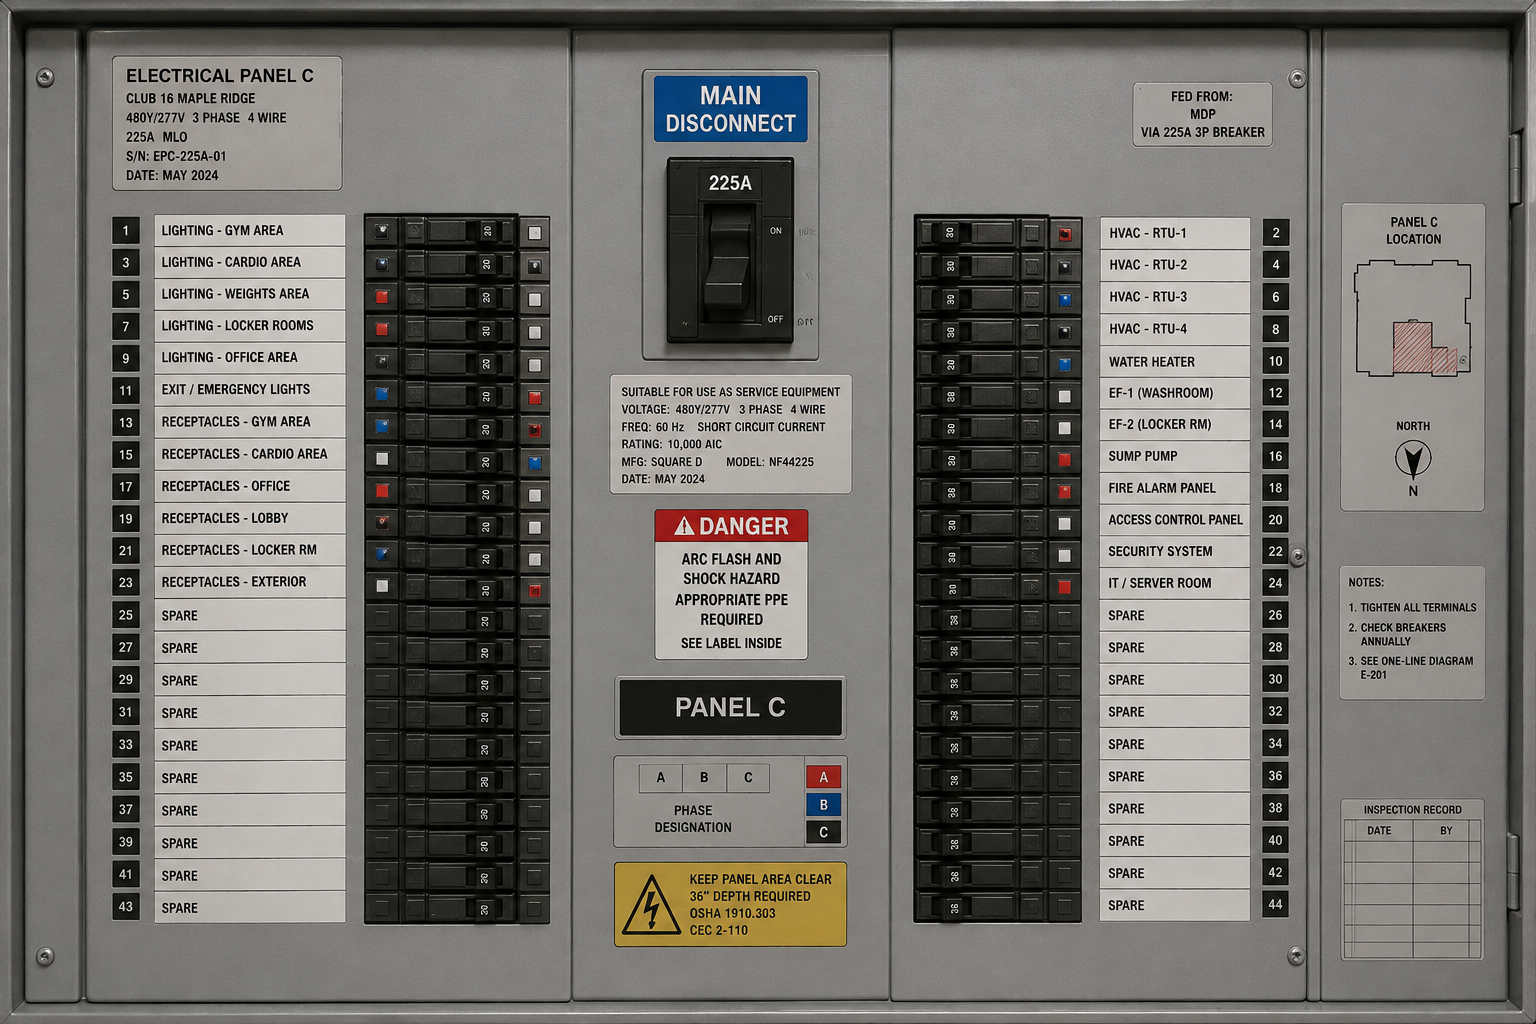
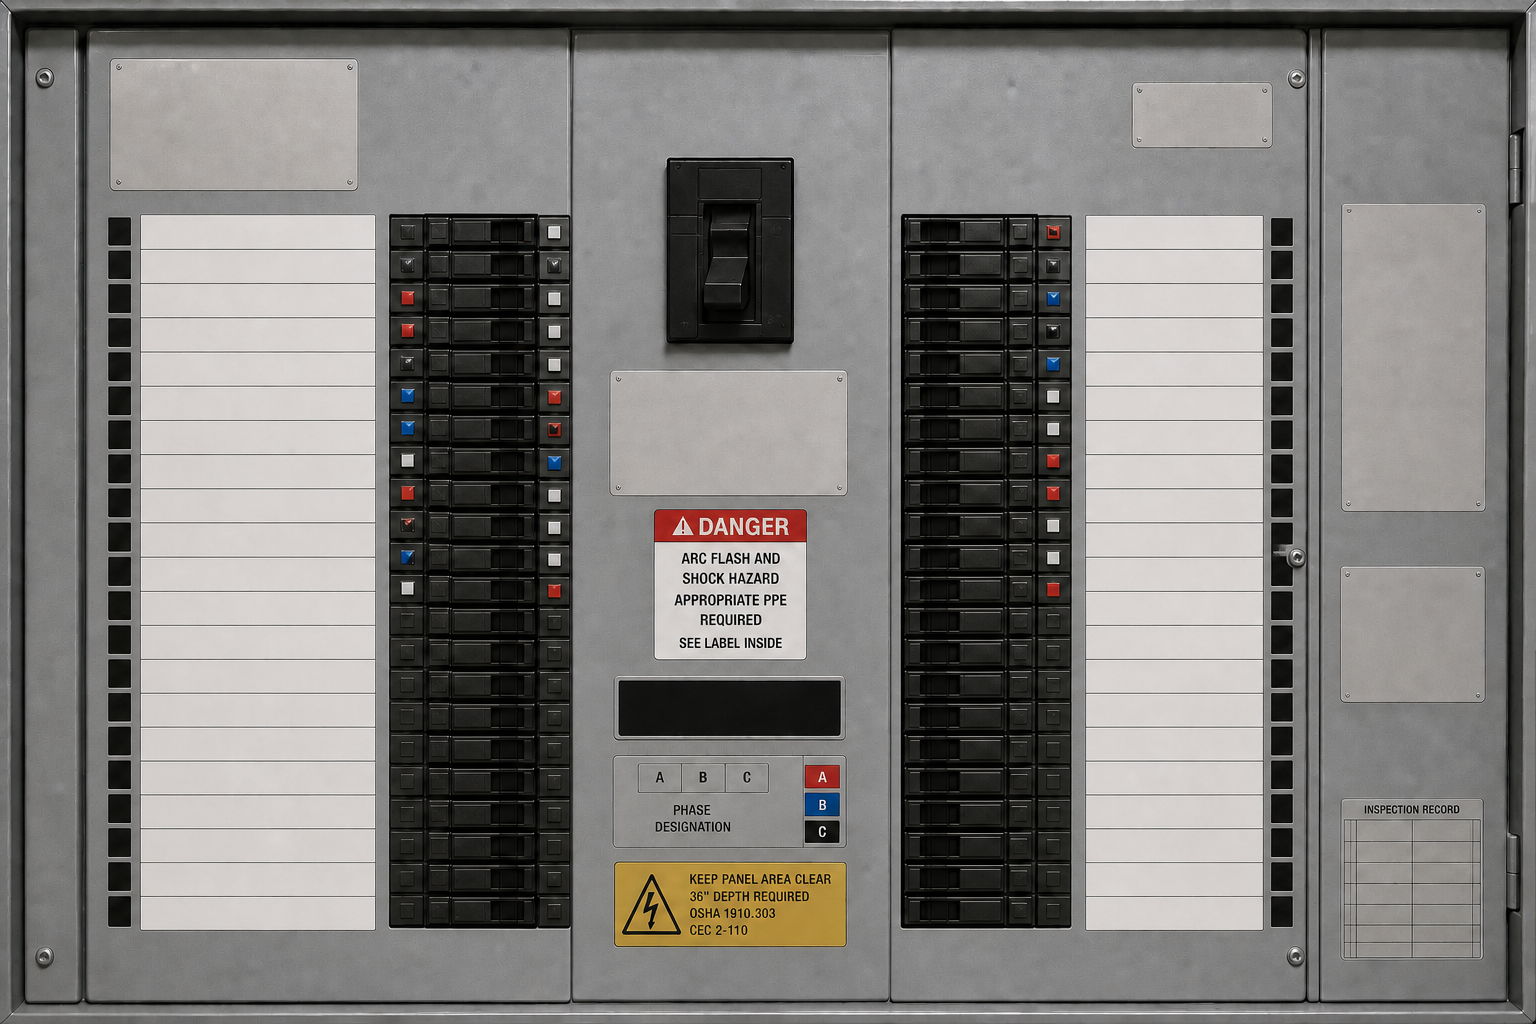
Add files via upload

diff --git a/app.js b/app.js
@@ -14,7 +14,7 @@ const PRODUCTION_SITE_URL = "https://sitesworks.info/";
 const SITEWORKS_API_BASE_URL = "";
 const SITEWORKS_API_MODE = SITEWORKS_API_BASE_URL ? "server" : "supabase";
 const STRUCTURED_DATA_SYNC_ENABLED = true;
-const SITEWORKS_APP_VERSION = "20260807-panel-ar-overlays";
+const SITEWORKS_APP_VERSION = "20260807-panel-template-overlays";
 const ALL_CUSTOMERS = "all";
 const ALL_LOCATIONS = "all";
 const MONITORING_SOURCE_PHASES = ["A", "B", "C"];
@@ -4190,27 +4190,27 @@ const MONITORING_PANEL_TEMPLATES = {
     circuitCount: 42,
     aspectRatio: "3 / 2",
     rows: {
-      left: { startY: 21.2, rowStep: 3.12 },
-      right: { startY: 21.2, rowStep: 3.12 }
+      left: { startY: 21.05, rowStep: 3.12 },
+      right: { startY: 21.05, rowStep: 3.12 }
     },
     zones: {
       left: {
-        row: { x: 5.7, width: 31.5, height: 2.65 },
-        number: { x: 5.7, width: 2.05 },
-        amps: { x: 7.88, width: 2.9 },
-        label: { x: 11.1, width: 13.8 },
-        breaker: { x: 23.25, width: 5.6 },
-        status: { x: 28.95, width: 2.15 },
+        row: { x: 6.95, width: 30.35, height: 2.65 },
+        number: { x: 6.95, y: 0, width: 1.65, height: 52 },
+        amps: { x: 6.95, y: 50, width: 1.65, height: 50 },
+        label: { x: 9.15, width: 15.35 },
+        breaker: { x: 25.35, width: 10.45 },
+        status: { x: 36.15, width: 1.0 },
         voltage: { x: 31.45, width: 2.55 },
         temperature: { x: 34.15, width: 2.55 }
       },
       right: {
-        row: { x: 61.0, width: 31.7, height: 2.65 },
-        status: { x: 61.0, width: 2.15 },
-        breaker: { x: 63.4, width: 5.6 },
-        label: { x: 70.0, width: 17.4 },
-        number: { x: 87.9, width: 2.05 },
-        amps: { x: 90.1, width: 2.9 },
+        row: { x: 58.65, width: 25.65, height: 2.65 },
+        status: { x: 58.65, width: 1.0 },
+        breaker: { x: 59.6, width: 10.2 },
+        label: { x: 70.6, width: 11.65 },
+        number: { x: 82.85, y: 0, width: 1.45, height: 52 },
+        amps: { x: 82.85, y: 50, width: 1.45, height: 50 },
         voltage: { x: 56.1, width: 2.55 },
         temperature: { x: 58.8, width: 2.55 }
       }
@@ -4248,9 +4248,10 @@ function monitoringOverlayInnerStyle(rowZone = {}, zone = {}, height = 100) {
   const rowX = Number(rowZone.x || 0);
   const rowWidth = Math.max(1, Number(rowZone.width || 100));
   const left = ((Number(zone.x || 0) - rowX) / rowWidth) * 100;
+  const top = Number(zone.y || 0);
   const width = (Number(zone.width || 0) / rowWidth) * 100;
   const zoneHeight = zone.height || height;
-  return `left:${left}%;top:0%;width:${width}%;height:${zoneHeight}%;`;
+  return `left:${left}%;top:${top}%;width:${width}%;height:${zoneHeight}%;`;
 }
 
 function monitoringCircuitValue(channel = null, names = []) {

diff --git a/styles.css b/styles.css
@@ -9600,9 +9600,11 @@ html[data-theme="dark"] .phase-toggle-row label {
 }
 
 .monitoring-panel-mockup.image-template .monitoring-overlay-amps {
-  background: rgba(238, 235, 224, 0.94);
-  color: #11181d;
-  font-size: clamp(0.42rem, 0.58vw, 0.72rem);
+  border: 0;
+  background: transparent;
+  color: rgba(255, 255, 255, 0.92);
+  font-size: clamp(0.32rem, 0.42vw, 0.58rem);
+  text-shadow: 0 1px 2px rgba(0, 0, 0, 0.95);
 }
 
 .monitoring-panel-mockup.image-template .monitoring-overlay-label {
@@ -9760,13 +9762,13 @@ html[data-theme="dark"] .monitoring-panel-mockup.image-template .monitoring-pane
 }
 
 html[data-theme="dark"] .monitoring-panel-mockup.image-template .monitoring-overlay-label,
-html[data-theme="dark"] .monitoring-panel-mockup.image-template .monitoring-overlay-amps,
 html[data-theme="dark"] .monitoring-panel-mockup.image-template .monitoring-overlay-voltage,
 html[data-theme="dark"] .monitoring-panel-mockup.image-template .monitoring-overlay-temperature {
   color: #11181d;
 }
 
-html[data-theme="dark"] .monitoring-panel-mockup.image-template .monitoring-overlay-number {
+html[data-theme="dark"] .monitoring-panel-mockup.image-template .monitoring-overlay-number,
+html[data-theme="dark"] .monitoring-panel-mockup.image-template .monitoring-overlay-amps {
   color: #ffffff;
 }
 
@@ -9799,7 +9801,6 @@ html[data-theme="dark"] .monitoring-panel-mockup.image-template .monitoring-over
   text-shadow: 0 1px 2px rgba(0, 0, 0, 0.95);
 }
 
-.monitoring-panel-mockup.image-template .monitoring-overlay-amps,
 .monitoring-panel-mockup.image-template .monitoring-overlay-voltage,
 .monitoring-panel-mockup.image-template .monitoring-overlay-temperature {
   display: none !important;
@@ -9899,4 +9900,8 @@ html[data-theme="dark"] .monitoring-panel-mockup.image-template .monitoring-over
 
 html[data-theme="dark"] .monitoring-panel-mockup.image-template .monitoring-overlay-number {
   color: rgba(255, 255, 255, 0.95);
+}
+
+html[data-theme="dark"] .monitoring-panel-mockup.image-template .monitoring-overlay-amps {
+  color: rgba(255, 255, 255, 0.92);
 }

diff --git a/index.html b/index.html
@@ -4,7 +4,7 @@
   <meta charset="utf-8">
   <meta name="viewport" content="width=device-width, initial-scale=1">
   <title>SiteWorks</title>
-    <link rel="stylesheet" href="/styles.css?v=20260807-panel-ar-overlays">
+    <link rel="stylesheet" href="/styles.css?v=20260807-panel-template-overlays">
 </head>
 <body>
   <section id="publicKeyScreen" class="report-screen hidden">
@@ -1809,7 +1809,7 @@
   <script src="https://cdn.jsdelivr.net/npm/@supabase/supabase-js@2"></script>
   <script src="https://cdn.jsdelivr.net/npm/pdfjs-dist@3.11.174/build/pdf.min.js"></script>
   <script src="/monitoring-engine.js?v=20260805-monitoring-engine"></script>
-    <script src="/app.js?v=20260807-panel-ar-overlays"></script>
+    <script src="/app.js?v=20260807-panel-template-overlays"></script>
   <script>
     (() => {
       const SUPABASE_URL = "https://chpjmtfxmkcelszeixnu.supabase.co";
